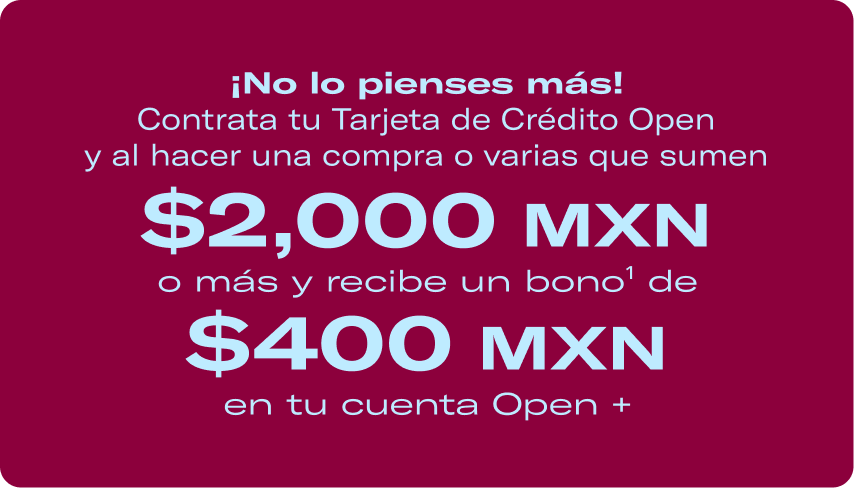
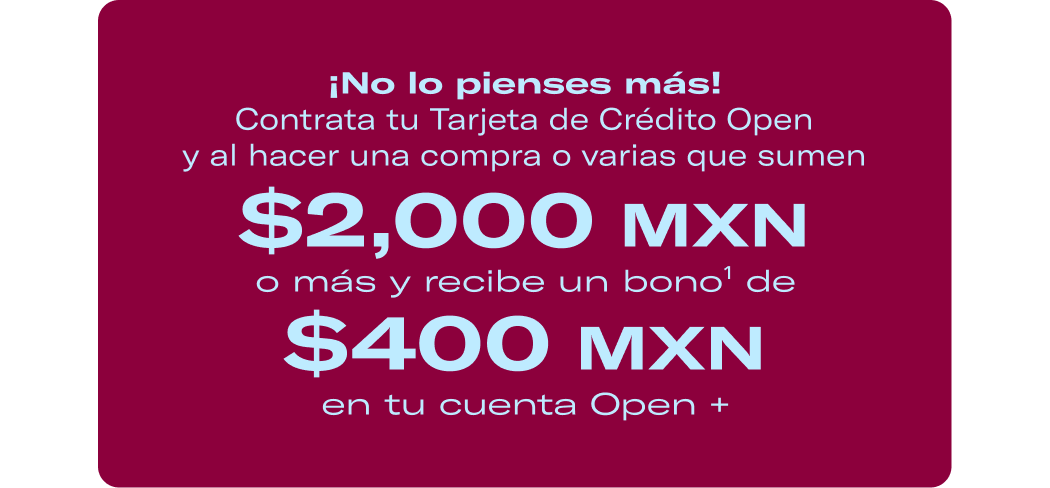
x

diff --git a/2025/05/09-HS1/HS1.html b/2025/05/09-HS1/HS1.html
@@ -460,21 +460,21 @@
         style="background-color: #fff; background-image: linear-gradient(#fff, #fff); -webkit-text-size-adjust:100%;-ms-text-size-adjust:100%;mso-table-lspace:0pt;mso-table-rspace:0pt;mso-default-height:100%;mso-default-width:100%;mso-space-above:no;mso-space-below:no;margin:0;padding:0;width:100%;max-width:600px;border-collapse:collapse !important;border-spacing:0 !important;table-layout:fixed !important;padding:0 !important;margin: 0; padding: 0; max-width: 600px;">
             <tr>
                 <td>
-                    <img src="https://openbank-newsletter-q2k5.vercel.app/2025/05/08-DESCUENTO-EN-TU-INSCRIPCION/img/banner2.png" width="100%" alt="" style="display:block;margin-top:-20px; margin-bottom:0">
+                    <img src="https://openbank-newsletter-q2k5.vercel.app/2025/05/09-HS1/img/banner.png" width="100%" alt="" style="display:block;margin-top:-20px; margin-bottom:0">
                 </td>
             </tr>
             <tr style="background-color: #fff; background-image: linear-gradient(#fff, #fff); background-image:url('https://openbank-newsletter-q2k5.vercel.app/2025/05/07-TU-RUNNING-ERA-EMPIEZA-AQUI/img/bg-white.png'); background-repeat: repeat;">
-                <td><a href="#"><img src="https://openbank-newsletter-q2k5.vercel.app/2025/05/08-DESCUENTO-EN-TU-INSCRIPCION/img/btn.png" width="100%" alt="" style="display:block;margin:0;"></a></td>
+                <td><a href="#"><img src="https://openbank-newsletter-q2k5.vercel.app/2025/05/09-HS1/img/boton.png" width="100%" alt="" style="display:block;margin:0;"></a></td>
             </tr>
             <tr>
-                <td><a href="#"><img src="https://openbank-newsletter-q2k5.vercel.app/2025/05/08-DESCUENTO-EN-TU-INSCRIPCION/img/ftr.png" width="100%" alt="" style="display:block;"></a></td>
+                <td><a href="#"><img src="https://openbank-newsletter-q2k5.vercel.app/2025/05/09-HS1/img/ftr.png" width="100%" alt="" style="display:block;"></a></td>
             </tr>
         </table>
         <table border="0" cellpadding="0" cellspacing="0" width="100%" class="templateColumnsFooter darkmode" bgcolor="#000000"
         style="-webkit-text-size-adjust:100%;-ms-text-size-adjust:100%;mso-table-lspace:0pt;mso-table-rspace:0pt;mso-default-height:100%;mso-default-width:100%;mso-space-above:no;mso-space-below:no;margin:0;padding:0;width:100%;max-width:600px;border-collapse:collapse !important;border-spacing:0 !important;table-layout:fixed !important;padding:0 !important;table-layout:auto !important;margin: 0; padding: 0; max-width: 600px; background-image: url('https://openbank-newsletter-q2k5.vercel.app/img/rrss/footer-bg.png'); background-image: linear-gradient(#000000, #000000); background-color: #000000; background-repeat: repeat;">
         <tr>
           <td>
-            <img src="https://openbank-newsletter-q2k5.vercel.app/2025/05/08-DESCUENTO-EN-TU-INSCRIPCION/img/we_are_open.png" width="100%" alt="" style="display:block;margin-bottom:5px;">
+            <img src="https://openbank-newsletter-q2k5.vercel.app/2025/05/09-HS1/img/we_are_open.png" width="100%" alt="" style="display:block;margin-bottom:5px;">
           </td>
         </tr>
         <tr>
